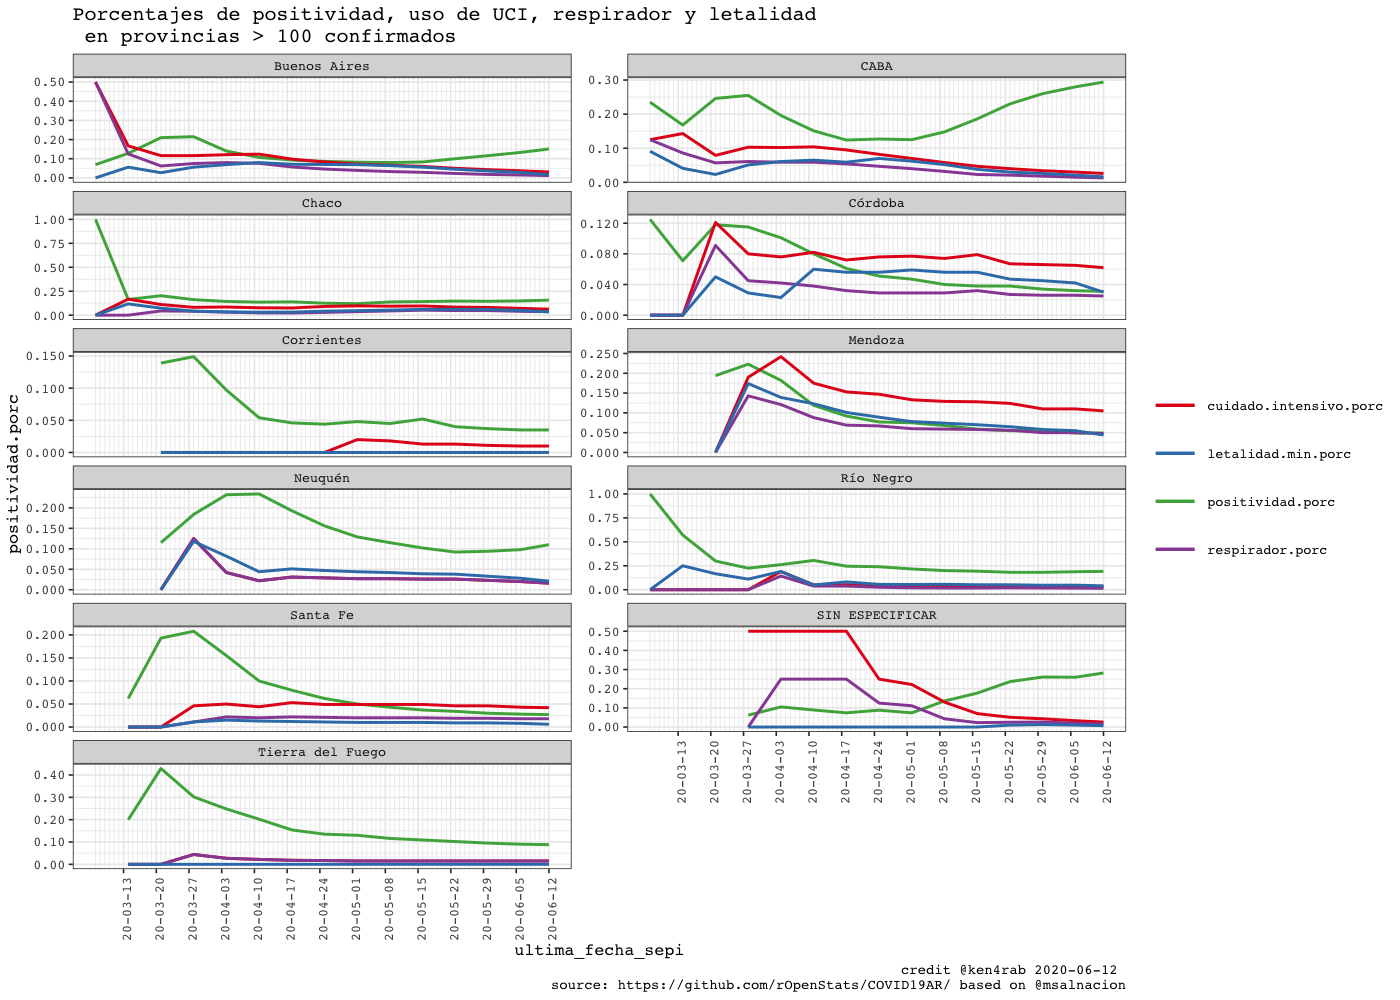
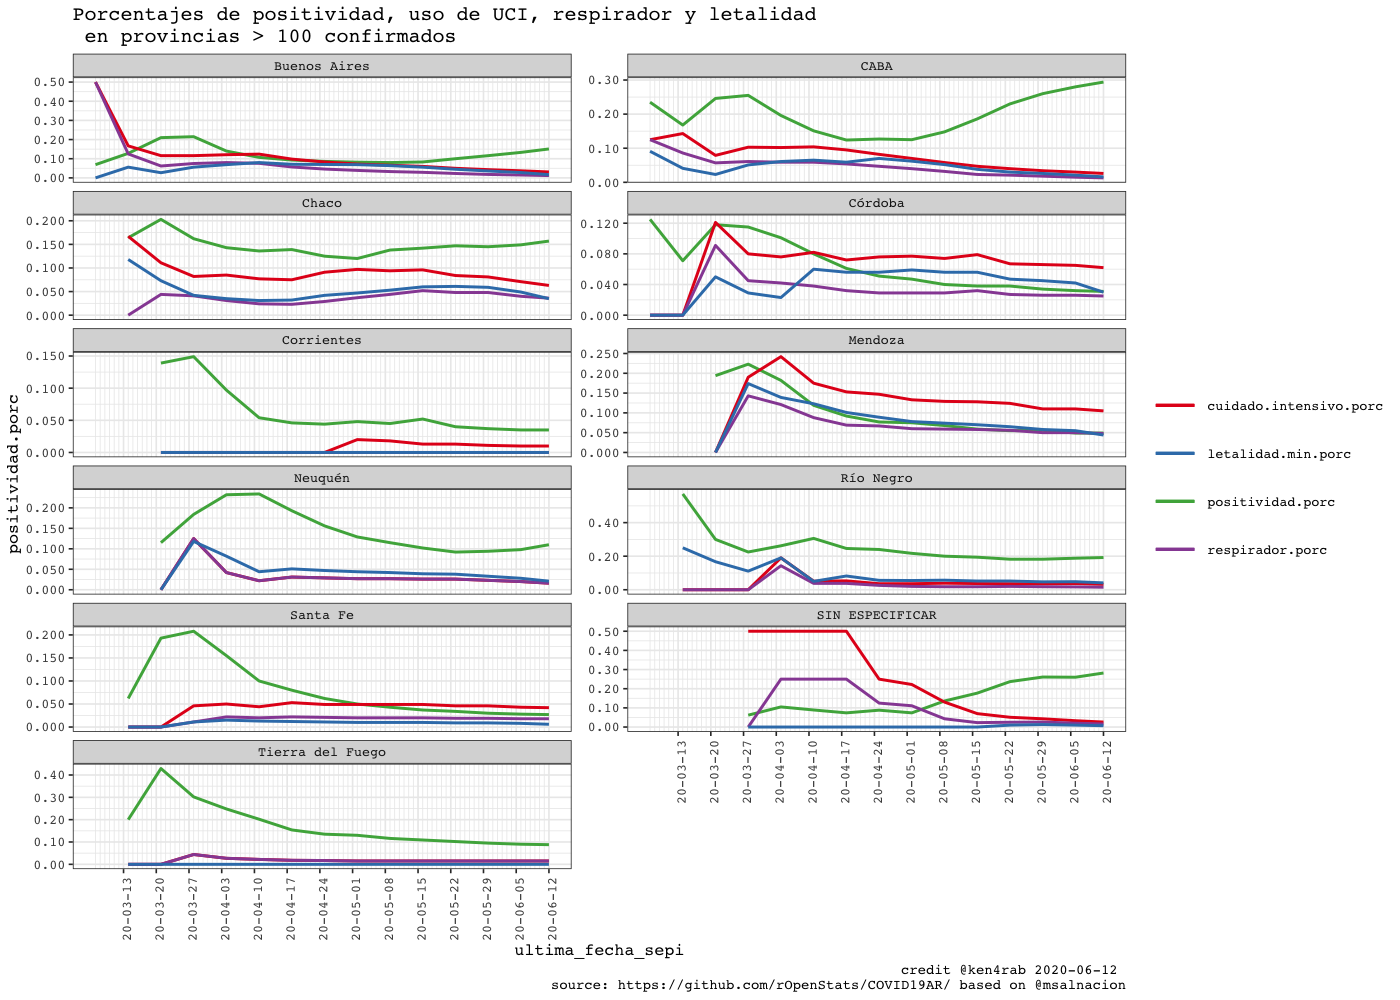
data updated up to 2020-06-12

Changed region(s): [[0.0614, 0.217, 0.3993, 0.341], [0.43, 0.496, 0.7986, 0.589], [0.0307, 0.217, 0.0614, 0.248]]

diff --git a/README.md b/README.md
@@ -81,14 +81,14 @@ lgr::threshold("info", lgr::get_logger("COVID19ARCurator"))
 
 # Data from
 # http://datos.salud.gob.ar/dataset/covid-19-casos-registrados-en-la-republica-argentina
-covid19.curator <- COVID19ARCurator$new()
+covid19.curator <- COVID19ARCurator$new(download.new.data = FALSE)
 
 dummy <- covid19.curator$loadData()
-#> INFO  [13:41:58.758] Exists dest path? {dest.path: ~/.R/COVID19AR/Covid19Casos.utf8.csv, exists.dest.path: TRUE}
+#> INFO  [14:12:22.232] Exists dest path? {dest.path: ~/.R/COVID19AR/Covid19Casos.csv, exists.dest.path: TRUE}
 dummy <- covid19.curator$curateData()
-#> INFO  [13:41:59.799] Normalize 
-#> INFO  [13:42:00.103] checkSoundness 
-#> INFO  [13:42:00.294] Mutating data
+#> INFO  [14:12:24.024] Normalize 
+#> INFO  [14:12:24.443] checkSoundness 
+#> INFO  [14:12:24.570] Mutating data
 # Dates of current processed file
 max(covid19.curator$data$fecha_apertura, na.rm = TRUE)
 #> [1] "2020-06-12"
@@ -150,7 +150,7 @@ kable((covid19.ar.summary %>% filter(confirmados > 0) %>% arrange(desc(confirmad
 
 ``` r
 covid19.ar.summary <- covid19.curator$makeSummary(group.vars = c("sepi_apertura"))
-#> INFO  [13:42:20.431] Processing {current.group: }
+#> INFO  [14:12:46.253] Processing {current.group: }
 nrow(covid19.ar.summary)
 #> [1] 20
 porc.cols <- names(covid19.ar.summary)[grep("porc", names(covid19.ar.summary))]
@@ -179,31 +179,31 @@ kable(covid19.ar.summary %>% filter(confirmados > 0) %>% arrange(sepi_apertura, 
 
 ```r
 covid19.ar.summary <- covid19.curator$makeSummary(group.vars = c("residencia_provincia_nombre", "sepi_apertura"))
-#> INFO  [13:42:23.887] Processing {current.group: residencia_provincia_nombre = Buenos Aires}
-#> INFO  [13:42:26.014] Processing {current.group: residencia_provincia_nombre = CABA}
-#> INFO  [13:42:27.793] Processing {current.group: residencia_provincia_nombre = Catamarca}
-#> INFO  [13:42:28.907] Processing {current.group: residencia_provincia_nombre = Chaco}
-#> INFO  [13:42:30.164] Processing {current.group: residencia_provincia_nombre = Chubut}
-#> INFO  [13:42:31.329] Processing {current.group: residencia_provincia_nombre = Córdoba}
-#> INFO  [13:42:32.828] Processing {current.group: residencia_provincia_nombre = Corrientes}
-#> INFO  [13:42:34.126] Processing {current.group: residencia_provincia_nombre = Entre Ríos}
-#> INFO  [13:42:35.314] Processing {current.group: residencia_provincia_nombre = Formosa}
-#> INFO  [13:42:36.565] Processing {current.group: residencia_provincia_nombre = Jujuy}
-#> INFO  [13:42:37.706] Processing {current.group: residencia_provincia_nombre = La Pampa}
-#> INFO  [13:42:38.837] Processing {current.group: residencia_provincia_nombre = La Rioja}
-#> INFO  [13:42:40.044] Processing {current.group: residencia_provincia_nombre = Mendoza}
-#> INFO  [13:42:41.399] Processing {current.group: residencia_provincia_nombre = Misiones}
-#> INFO  [13:42:42.510] Processing {current.group: residencia_provincia_nombre = Neuquén}
-#> INFO  [13:42:43.667] Processing {current.group: residencia_provincia_nombre = Río Negro}
-#> INFO  [13:42:44.975] Processing {current.group: residencia_provincia_nombre = Salta}
-#> INFO  [13:42:46.608] Processing {current.group: residencia_provincia_nombre = San Juan}
-#> INFO  [13:42:48.052] Processing {current.group: residencia_provincia_nombre = San Luis}
-#> INFO  [13:42:49.284] Processing {current.group: residencia_provincia_nombre = Santa Cruz}
-#> INFO  [13:42:50.428] Processing {current.group: residencia_provincia_nombre = Santa Fe}
-#> INFO  [13:42:51.782] Processing {current.group: residencia_provincia_nombre = Santiago del Estero}
-#> INFO  [13:42:52.969] Processing {current.group: residencia_provincia_nombre = SIN ESPECIFICAR}
-#> INFO  [13:42:54.295] Processing {current.group: residencia_provincia_nombre = Tierra del Fuego}
-#> INFO  [13:42:55.796] Processing {current.group: residencia_provincia_nombre = Tucumán}
+#> INFO  [14:12:49.485] Processing {current.group: residencia_provincia_nombre = Buenos Aires}
+#> INFO  [14:12:51.861] Processing {current.group: residencia_provincia_nombre = CABA}
+#> INFO  [14:12:53.757] Processing {current.group: residencia_provincia_nombre = Catamarca}
+#> INFO  [14:12:54.929] Processing {current.group: residencia_provincia_nombre = Chaco}
+#> INFO  [14:12:56.369] Processing {current.group: residencia_provincia_nombre = Chubut}
+#> INFO  [14:12:57.722] Processing {current.group: residencia_provincia_nombre = Córdoba}
+#> INFO  [14:12:59.303] Processing {current.group: residencia_provincia_nombre = Corrientes}
+#> INFO  [14:13:00.578] Processing {current.group: residencia_provincia_nombre = Entre Ríos}
+#> INFO  [14:13:01.828] Processing {current.group: residencia_provincia_nombre = Formosa}
+#> INFO  [14:13:03.147] Processing {current.group: residencia_provincia_nombre = Jujuy}
+#> INFO  [14:13:04.357] Processing {current.group: residencia_provincia_nombre = La Pampa}
+#> INFO  [14:13:05.681] Processing {current.group: residencia_provincia_nombre = La Rioja}
+#> INFO  [14:13:07.034] Processing {current.group: residencia_provincia_nombre = Mendoza}
+#> INFO  [14:13:08.462] Processing {current.group: residencia_provincia_nombre = Misiones}
+#> INFO  [14:13:09.674] Processing {current.group: residencia_provincia_nombre = Neuquén}
+#> INFO  [14:13:10.987] Processing {current.group: residencia_provincia_nombre = Río Negro}
+#> INFO  [14:13:12.266] Processing {current.group: residencia_provincia_nombre = Salta}
+#> INFO  [14:13:13.489] Processing {current.group: residencia_provincia_nombre = San Juan}
+#> INFO  [14:13:14.773] Processing {current.group: residencia_provincia_nombre = San Luis}
+#> INFO  [14:13:16.037] Processing {current.group: residencia_provincia_nombre = Santa Cruz}
+#> INFO  [14:13:17.274] Processing {current.group: residencia_provincia_nombre = Santa Fe}
+#> INFO  [14:13:18.938] Processing {current.group: residencia_provincia_nombre = Santiago del Estero}
+#> INFO  [14:13:20.289] Processing {current.group: residencia_provincia_nombre = SIN ESPECIFICAR}
+#> INFO  [14:13:21.728] Processing {current.group: residencia_provincia_nombre = Tierra del Fuego}
+#> INFO  [14:13:23.243] Processing {current.group: residencia_provincia_nombre = Tucumán}
 nrow(covid19.ar.summary)
 #> [1] 376
 porc.cols <- names(covid19.ar.summary)[grep("porc", names(covid19.ar.summary))]
@@ -217,7 +217,9 @@ sepi.fechas <- covid19.curator$data %>%
 
 data2plot <- covid19.ar.summary %>%
                 filter(residencia_provincia_nombre %in% covid19.ar.provincia.summary.100.confirmed$residencia_provincia_nombre) %>%
-                filter(confirmados > 0 )
+                filter(confirmados > 0 ) %>%
+                filter(positividad.porc <=0.6 | confirmados >= 20)
+
                 
 data2plot %<>% inner_join(sepi.fechas, by = "sepi_apertura")
 dates <- sort(unique(data2plot$ultima_fecha_sepi))
